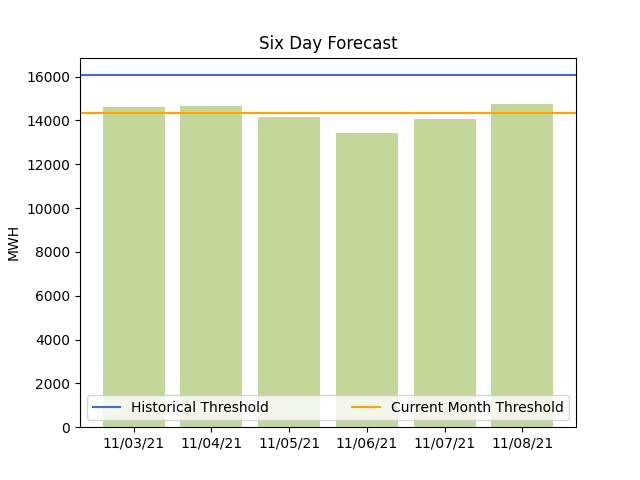
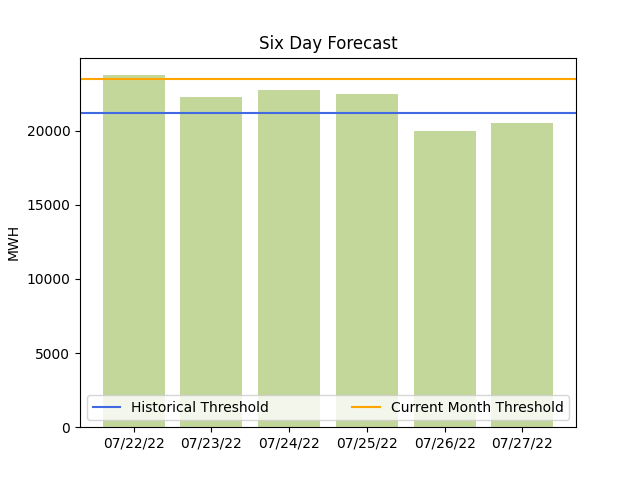
2021 historical data added and update current month threshold

diff --git a/threeDay/mongoConnect.py b/threeDay/mongoConnect.py
@@ -4,15 +4,15 @@ from flask_cors import CORS
 import datetime
 from calendar import monthrange
 import numpy as np
-# from threeDayForecast import retrieve_actual_data
 
 
-connection_url = "mongodb+srv://RyanMatt:JeffKramer1@historicaldata.2fqkr.mongodb.net/myFirstDatabase?retryWrites=true&w=majority"
+
+connection_url = "mongodb+srv://admin:4z9gadc6vGKvc1TN@lelwd-generator-applica.141qu.mongodb.net/?retryWrites=true&w=majority"
 app = Flask(__name__)
 client = pymongo.MongoClient(connection_url)
 
 # Database
-db = client.get_database("lelwd")
+db = client.get_database("historical-data")
 
 
 # Assign a variable to every differnt collection
@@ -28,8 +28,8 @@ hourly_2019_demand = db.hourly_2019_demand
 
 hourly_2020_demand = db.hourly_2020_demand
 
+hourly_2021_demand = db.hourly_2021_demand
 
-count = hourly_2015_demand.count_documents({})
 
 
 # To insert a single document into the database,
@@ -131,6 +131,19 @@ def get2020Data():
         max_data[daily_peak] = hr_end
         return max_data
 
+def get2021Data():
+    max_data = dict()
+    data = db.hourly_2021_demand
+    for day in range(1, days + 1):
+        demand_list = data.find({"Date": datetime.datetime(2021, month, day, 4, 0)})
+        daily_peak = 0
+        for item in demand_list:
+            if item["RT_Demand"] > daily_peak:
+                daily_peak = item["RT_Demand"]
+                hr_end = item["Hr_end"]
+        max_data[daily_peak] = hr_end
+        return max_data
+
 
 
 def get_monthly_historical_data():
@@ -140,7 +153,7 @@ def get_monthly_historical_data():
     max_hour = []
     max_peak = []
     year = 2015
-    year_data = [db.hourly_2015_demand, db.hourly_2016_demand, db.hourly_2017_demand, db.hourly_2018_demand, db.hourly_2019_demand, db.hourly_2020_demand]
+    year_data = [db.hourly_2015_demand, db.hourly_2016_demand, db.hourly_2017_demand, db.hourly_2018_demand, db.hourly_2019_demand, db.hourly_2020_demand, db.hourly_2021_demand]
     for data in year_data:
         for day in range(1, days+1):
             demand_list = data.find({'Date': "{0}-{1}-{2}".format(day, month_string, str(year)[-2:])})
@@ -154,8 +167,12 @@ def get_monthly_historical_data():
         year += 1
     return max_hour, max_peak
 
+def update_current_month_threshold(threshold):
+    data = db.current_month_threshold
+    data.update_one({}, {"$set": {"current_month_threshold": threshold}})
+
 
 if __name__ == "__main__":
-    max_hour, max_peak = get_monthly_historical_data()
+    # max_hour, max_peak = get_monthly_historical_data()
 
-    print(max_peak)
+    update_current_month_threshold(18049)

diff --git a/threeDay/threeDayForecast.py b/threeDay/threeDayForecast.py
@@ -8,7 +8,7 @@ import doMail
 import matplotlib.pyplot as plt
 from requests.packages.urllib3.exceptions import InsecureRequestWarning
 import xmltodict
-from mongoConnect import get_monthly_historical_data
+import mongoConnect as mongo
 
 requests.packages.urllib3.disable_warnings(InsecureRequestWarning)
 
@@ -27,9 +27,8 @@ def retrieve_data():
 
 
 def retrieve_actual_data(api_date):
-    actual_data_api = "https://webservices.iso-ne.com/api/v1.1/hourlysysload/day/{}/location/32".format(
-        api_date
-    )
+    actual_data_api = f"https://webservices.iso-ne.com/api/v1.1/hourlysysload/day/{api_date}/location/32"
+
     response = requests.get(
         actual_data_api,
         auth=HTTPBasicAuth("info.rmsolutionss@gmail.com", "JeffKramer1"),
@@ -44,8 +43,8 @@ def retrieve_actual_data(api_date):
 def get_six_day():
     d = datetime.date.today()
     api_date = "{}{:02d}{:02d}".format(d.year, d.month, d.day)
-    six_day_api = "https://webservices.iso-ne.com/api/v1.1/sevendayforecast/day/{}".format(
-        api_date)
+    six_day_api = f"https://webservices.iso-ne.com/api/v1.1/sevendayforecast/day/{api_date}"
+
     response = requests.get(
         six_day_api,
         auth=HTTPBasicAuth("info.rmsolutionss@gmail.com", "JeffKramer1"),
@@ -67,10 +66,11 @@ def parse_data(data):
     for i in range(len(days)):
         current = data[days[i]]
         for index in range(len(current)):
-            graph_row = current[index]["Mw"]
-            graph_data[i].append(graph_row)
-            table_row = "{:,}".format(current[index]["Mw"])
-            table_data[i].append(table_row)
+            if current[index]["HourEnd"] != "02X":
+                graph_row = current[index]["Mw"]
+                graph_data[i].append(graph_row)
+                table_row = "{:,}".format(current[index]["Mw"])
+                table_data[i].append(table_row)
     return table_data, graph_data
 
 
@@ -248,7 +248,10 @@ def current_month_threshold():
     if not month_data:
         return 0
 
-    return round(max(month_data) * .97)
+    current_threshold = round(max(month_data) * .97)
+    mongo.update_current_month_threshold(current_threshold)
+
+    return current_threshold
 
 
 def alert_rating(peak, threshold):
@@ -305,7 +308,7 @@ if __name__ == "__main__":
         graph_data
     )
 
-    pie_data, threshold = get_monthly_historical_data()
+    pie_data, threshold = mongo.get_monthly_historical_data()
     historical_threshold = np.percentile(threshold, 75)
     monthly_threshold = current_month_threshold()
 

diff --git a/threeDay/doMail.py b/threeDay/doMail.py
@@ -8,9 +8,9 @@ def send_mail(body):
     message = MIMEMultipart()
     message["Subject"] = "Three Day Forecast"
     # message["From"] = "leldforecast@gmail.com"
-    # message["From"] = "dev923757@gmail.com"
-    message["To"] = "peakalert@lelwd.com"
-    # message["To"] = "dev923757@gmail.com"
+    message["From"] = "dev923757@gmail.com"
+    # message["To"] = "peakalert@lelwd.com"
+    message["To"] = "dev923757@gmail.com"
 
     body_content = body
     message.attach(MIMEText(body_content, "html"))
@@ -18,24 +18,18 @@ def send_mail(body):
     msgAlternative = MIMEMultipart("alternative")
     message.attach(msgAlternative)
 
-    fp = open("figure.png", "rb")
-    msgImage = MIMEImage(fp.read())
-    fp.close()
-
+    with open("figure.png", "rb") as fp:
+        msgImage = MIMEImage(fp.read())
     msgImage.add_header("Content-ID", "<image1>")
     message.attach(msgImage)
 
-    fp2 = open("figure2.png", "rb")
-    msgImage2 = MIMEImage(fp2.read())
-    fp2.close()
-
+    with open("figure2.png", "rb") as fp2:
+        msgImage2 = MIMEImage(fp2.read())
     msgImage2.add_header("Content-ID", "<image2>")
     message.attach(msgImage2)
 
-    fp3 = open("figure3.png", "rb")
-    msgImage3 = MIMEImage(fp3.read())
-    fp3.close()
-
+    with open("figure3.png", "rb") as fp3:
+        msgImage3 = MIMEImage(fp3.read())
     msgImage3.add_header("Content-ID", "<image3>")
     message.attach(msgImage3)
 
@@ -43,8 +37,8 @@ def send_mail(body):
 
     server = SMTP("smtp.gmail.com", 587)
     server.starttls()
-    # server.login(message["From"], "Develop123")
-    server.login(message["From"], "@39Ayerrd")
+    server.login(message["From"], "huggzpnmqpntvtbf")
+    # server.login(message["From"], "@39Ayerrd")
 
     server.sendmail(message["From"], message["To"], msg_body)
     server.quit()

diff --git a/alertSystem/doAlert.py b/alertSystem/doAlert.py
@@ -9,7 +9,7 @@ def send_textmessage_alert(alert=""):
     cellphone = 18452422392
     twilio_number = 17068105899
     account = "AC062ffd139b27fde112c817fc516f4400"
-    token = "f2e8218c33cd7c37354c9b4cb7892607"
+    token = "d2adc19bec71e1529c780d68c2977928"
 
     client = Client(account, token)
 
